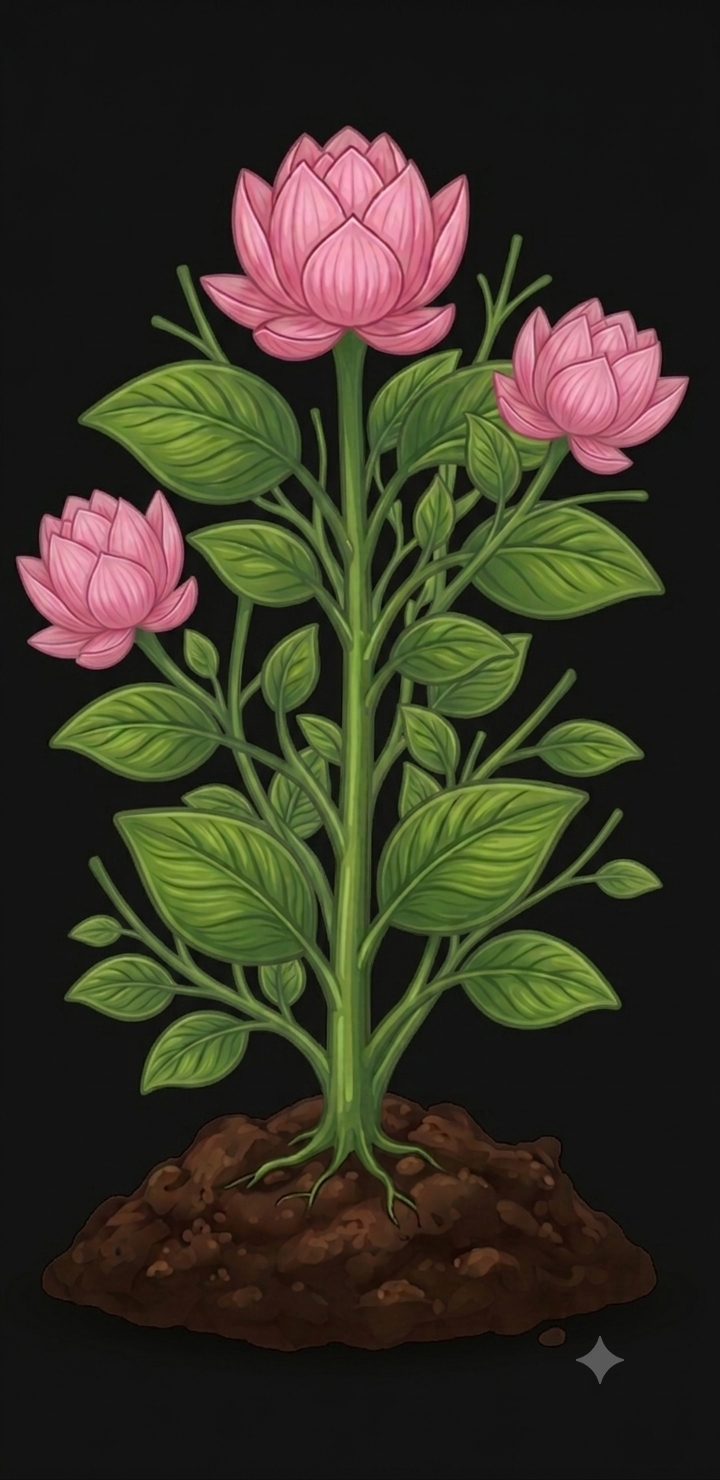
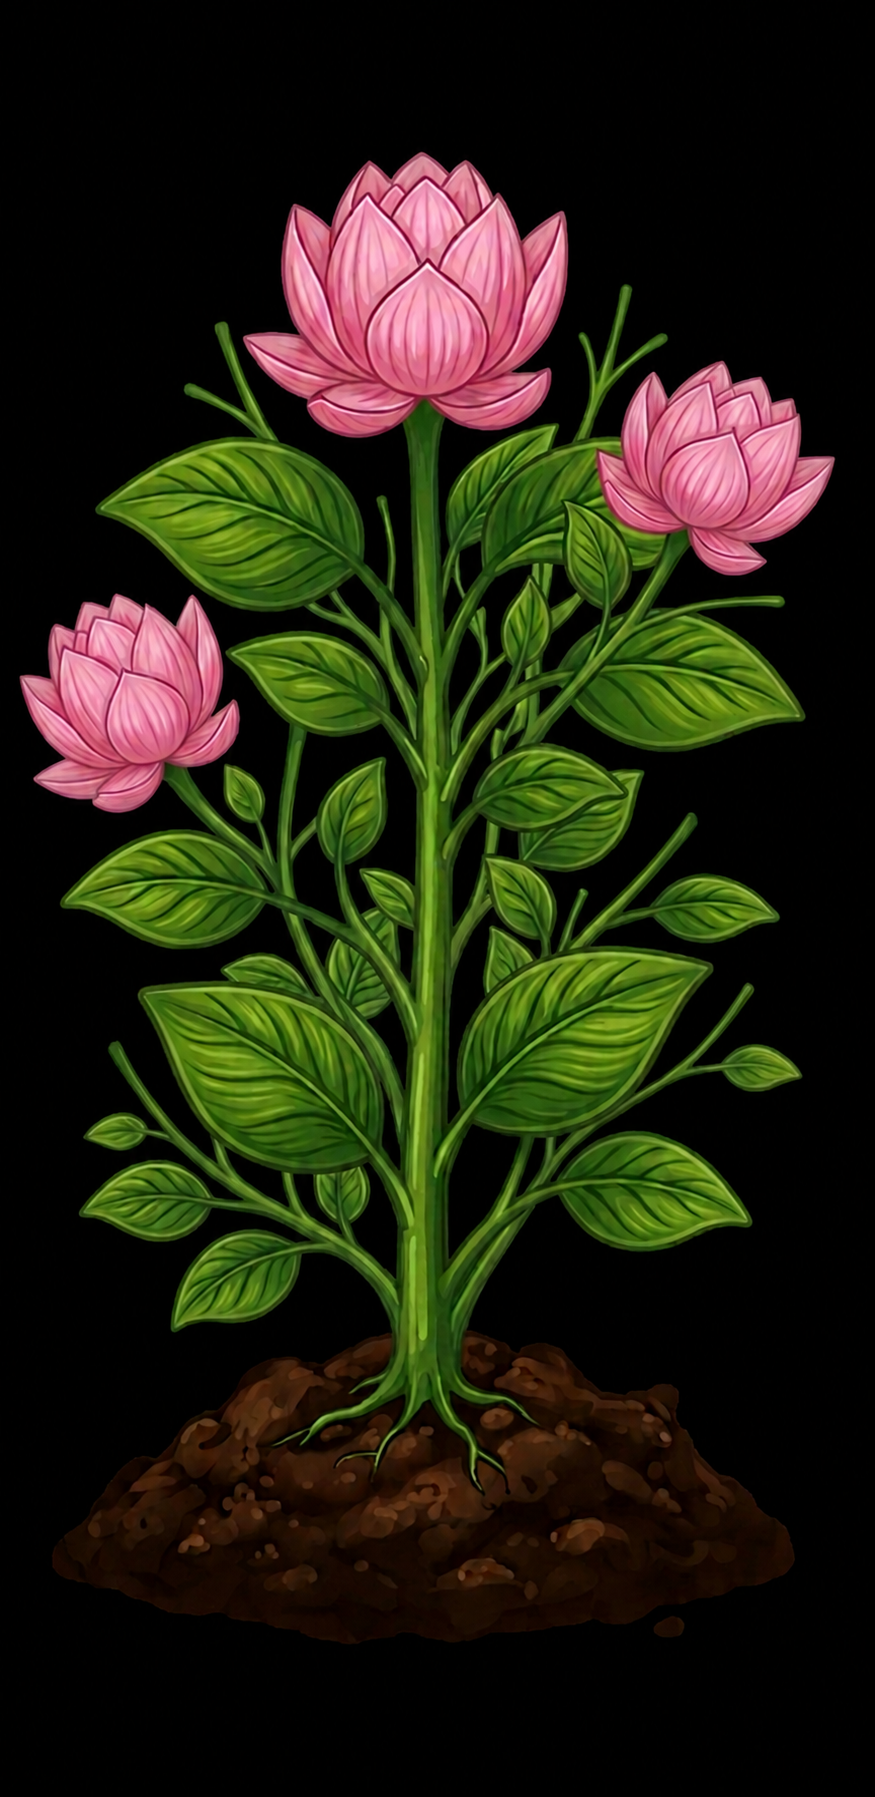
changes

diff --git a/src/DayPage.jsx b/src/DayPage.jsx
@@ -18,6 +18,7 @@ const [linkedin, setLinkedin] = useState('')
    const path = window.location.pathname
 const requestedDay = Number(path.split('/').pop())
 const day = Math.min(Math.max(requestedDay, 1), 60)
+const challengeFinished = day === 60
 
 const getPlantStage = (day) => {
   if (day <= 4) return stage0
@@ -39,62 +40,80 @@ const plantImage = getPlantStage(day)
       <header className="day-header">
         <span>ABTALKS · 60 DAY CHALLENGE</span>
 
-        <p>DAY {day} / 60</p>
+<p>DAY {day} / 60</p>
 
-        <h1>Build something<br />worth showing.</h1>
+<h1>
+  {challengeFinished
+    ? <>You did it.<br />You grew.</>
+    : <>Build something<br />worth showing.</>
+  }
+</h1>
 
-        <div className="day-status">
-          CURRENT DAY
-        </div>
+<div className="day-status">
+  {challengeFinished ? 'CHALLENGE COMPLETE' : 'CURRENT DAY'}
+</div>
       </header>
 
 
       <section className="day-plant">
-
   <div className="plant-art">
     <img src={plantImage} alt="Your plant" />
   </div>
 
   <div className="plant-info">
-    <span>YOUR PLANT</span>
-    <h2>Grow Well</h2>
+    {challengeFinished ? 'Plant Has Fully Blossomed' : "Plant Is Growing Well"}
     <p>Day {day} · Stage {day <= 4 ? 0 : day <= 12 ? 1 : day <= 20 ? 2 : day <= 30 ? 3 : day <= 40 ? 4 : day <= 50 ? 5 : 6}</p>
   </div>
 
 </section>
 
 
-     <section className="day-task">
+ <section className="day-task">
 
-  <span>TODAY'S TASK</span>
+  <span>
+    {challengeFinished ? 'YOU MADE IT' : "TODAY'S TASK"}
+  </span>
+<br />
+  {challengeFinished && (
+    <p className="completion-message">
+      60 days. 60 builds. You showed up and finished the challenge.
+      Your garden has grown all the way.
+    </p>
+  )}
 
   <h2>
-    Build your first responsive dashboard.
+    {challengeFinished
+      ? 'You completed the 60-day challenge.'
+      : 'Build your first responsive dashboard.'
+    }
   </h2>
 
-  <p>
-    Turn your progress into a simple dashboard that
-    someone can understand within a few seconds.
-  </p>
+  {!challengeFinished && (
+    <>
+      <p>
+        Turn your progress into a simple dashboard that
+        someone can understand within a few seconds.
+      </p>
 
-  <div className="task-list">
-    <div>✓ Create a clear dashboard layout</div>
-    <div>✓ Make it mobile-first and responsive</div>
-    <div>✓ Show at least 3 meaningful sections</div>
-    <div>✓ Add one interactive element</div>
-    <div>✓ Deploy your work</div>
-  </div>
+      <div className="task-list">
+        <div>✓ Create a clear dashboard layout</div>
+        <div>✓ Make it mobile-first and responsive</div>
+        <div>✓ Show at least 3 meaningful sections</div>
+        <div>✓ Add one interactive element</div>
+        <div>✓ Deploy your work</div>
+      </div>
 
-</section>
-
-
-      <section className="proof-section">
+       <section className="proof-section">
 
         <div className="section-heading">
-          <span>PROOF OF WORK</span>
-          <p>Submit both before completing the day.</p>
+         
+          {challengeFinished
+  ? 'Your 60-day journey is complete.'
+  : 'Submit both before completing the day.'}
         </div>
+<br />
 
+ <center><span>PROOF OF WORK</span> </center><br />
 
         <div className="proof-card">
           <div>
@@ -153,6 +172,13 @@ const plantImage = getPlantStage(day)
 )}
 
       </section>
+    </>
+  )}
+
+</section>
+
+
+     
 
     </main>
   )

diff --git a/src/day-page.css b/src/day-page.css
@@ -47,6 +47,28 @@
 
 /* Plant state */
 
+.completion-message {
+  margin-top: 18px;
+  padding: 16px 18px;
+
+  background: rgba(117, 217, 91, 0.08);
+  border: 1px solid rgba(117, 217, 91, 0.2);
+  border-radius: 12px;
+
+  color: #a8d99b;
+  font-size: 14px;
+  line-height: 1.6;
+}
+.completion-message + h2 {
+  color: #f3f7f1;
+}
+
+.prx{
+  padding: 3px;
+  color:  #4e6bcd;
+  border-radius: 3%;
+  
+}
 .plant-state {
   max-width: 680px;
   margin: 36px auto 0;
